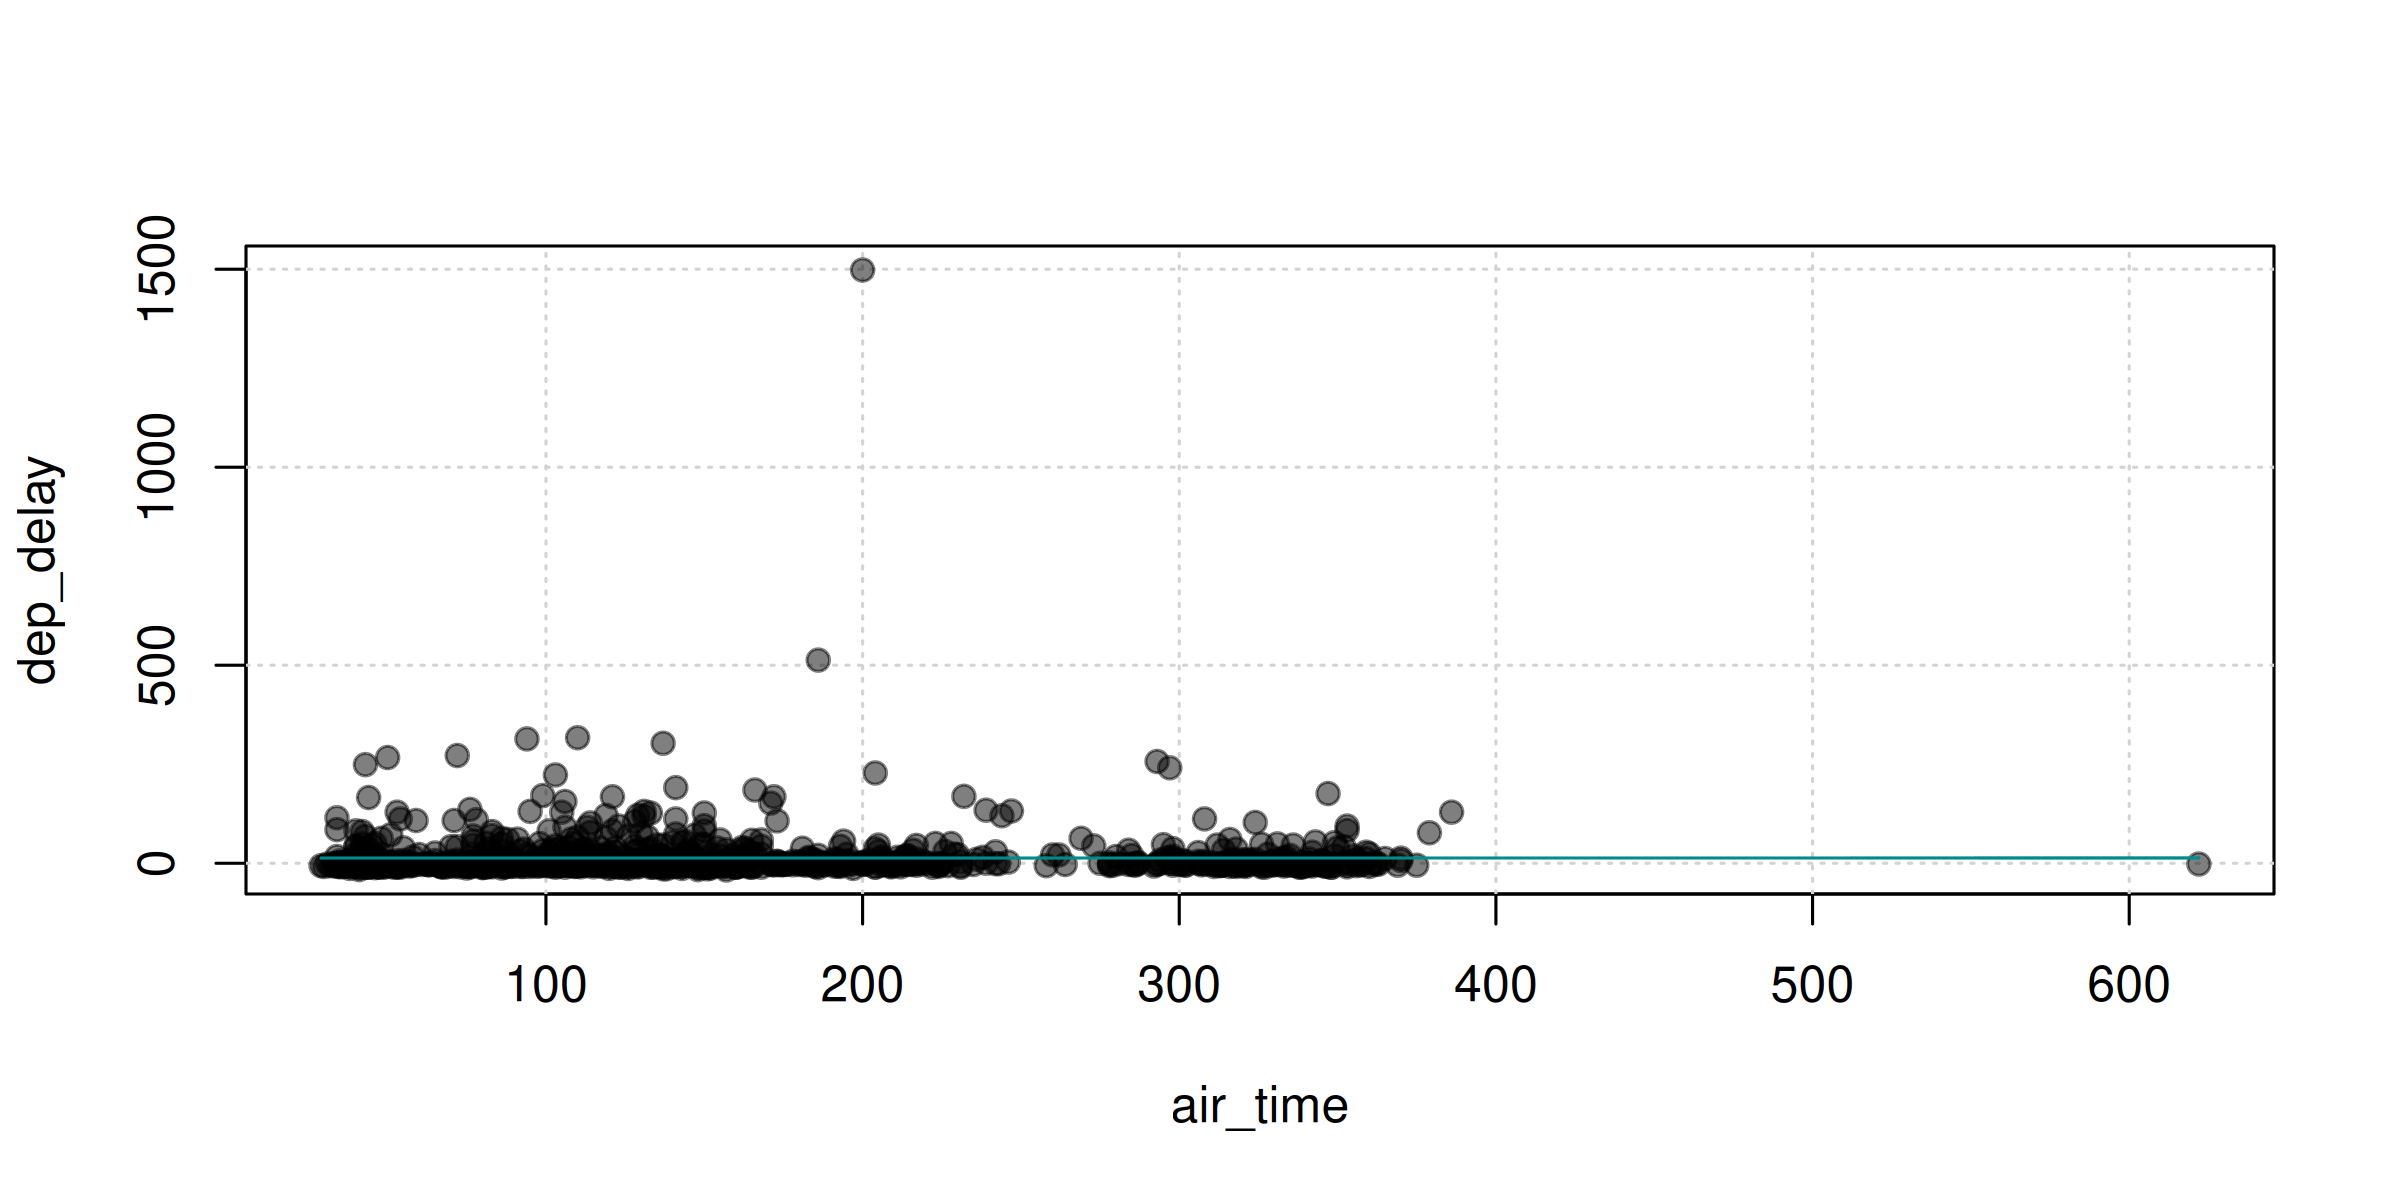
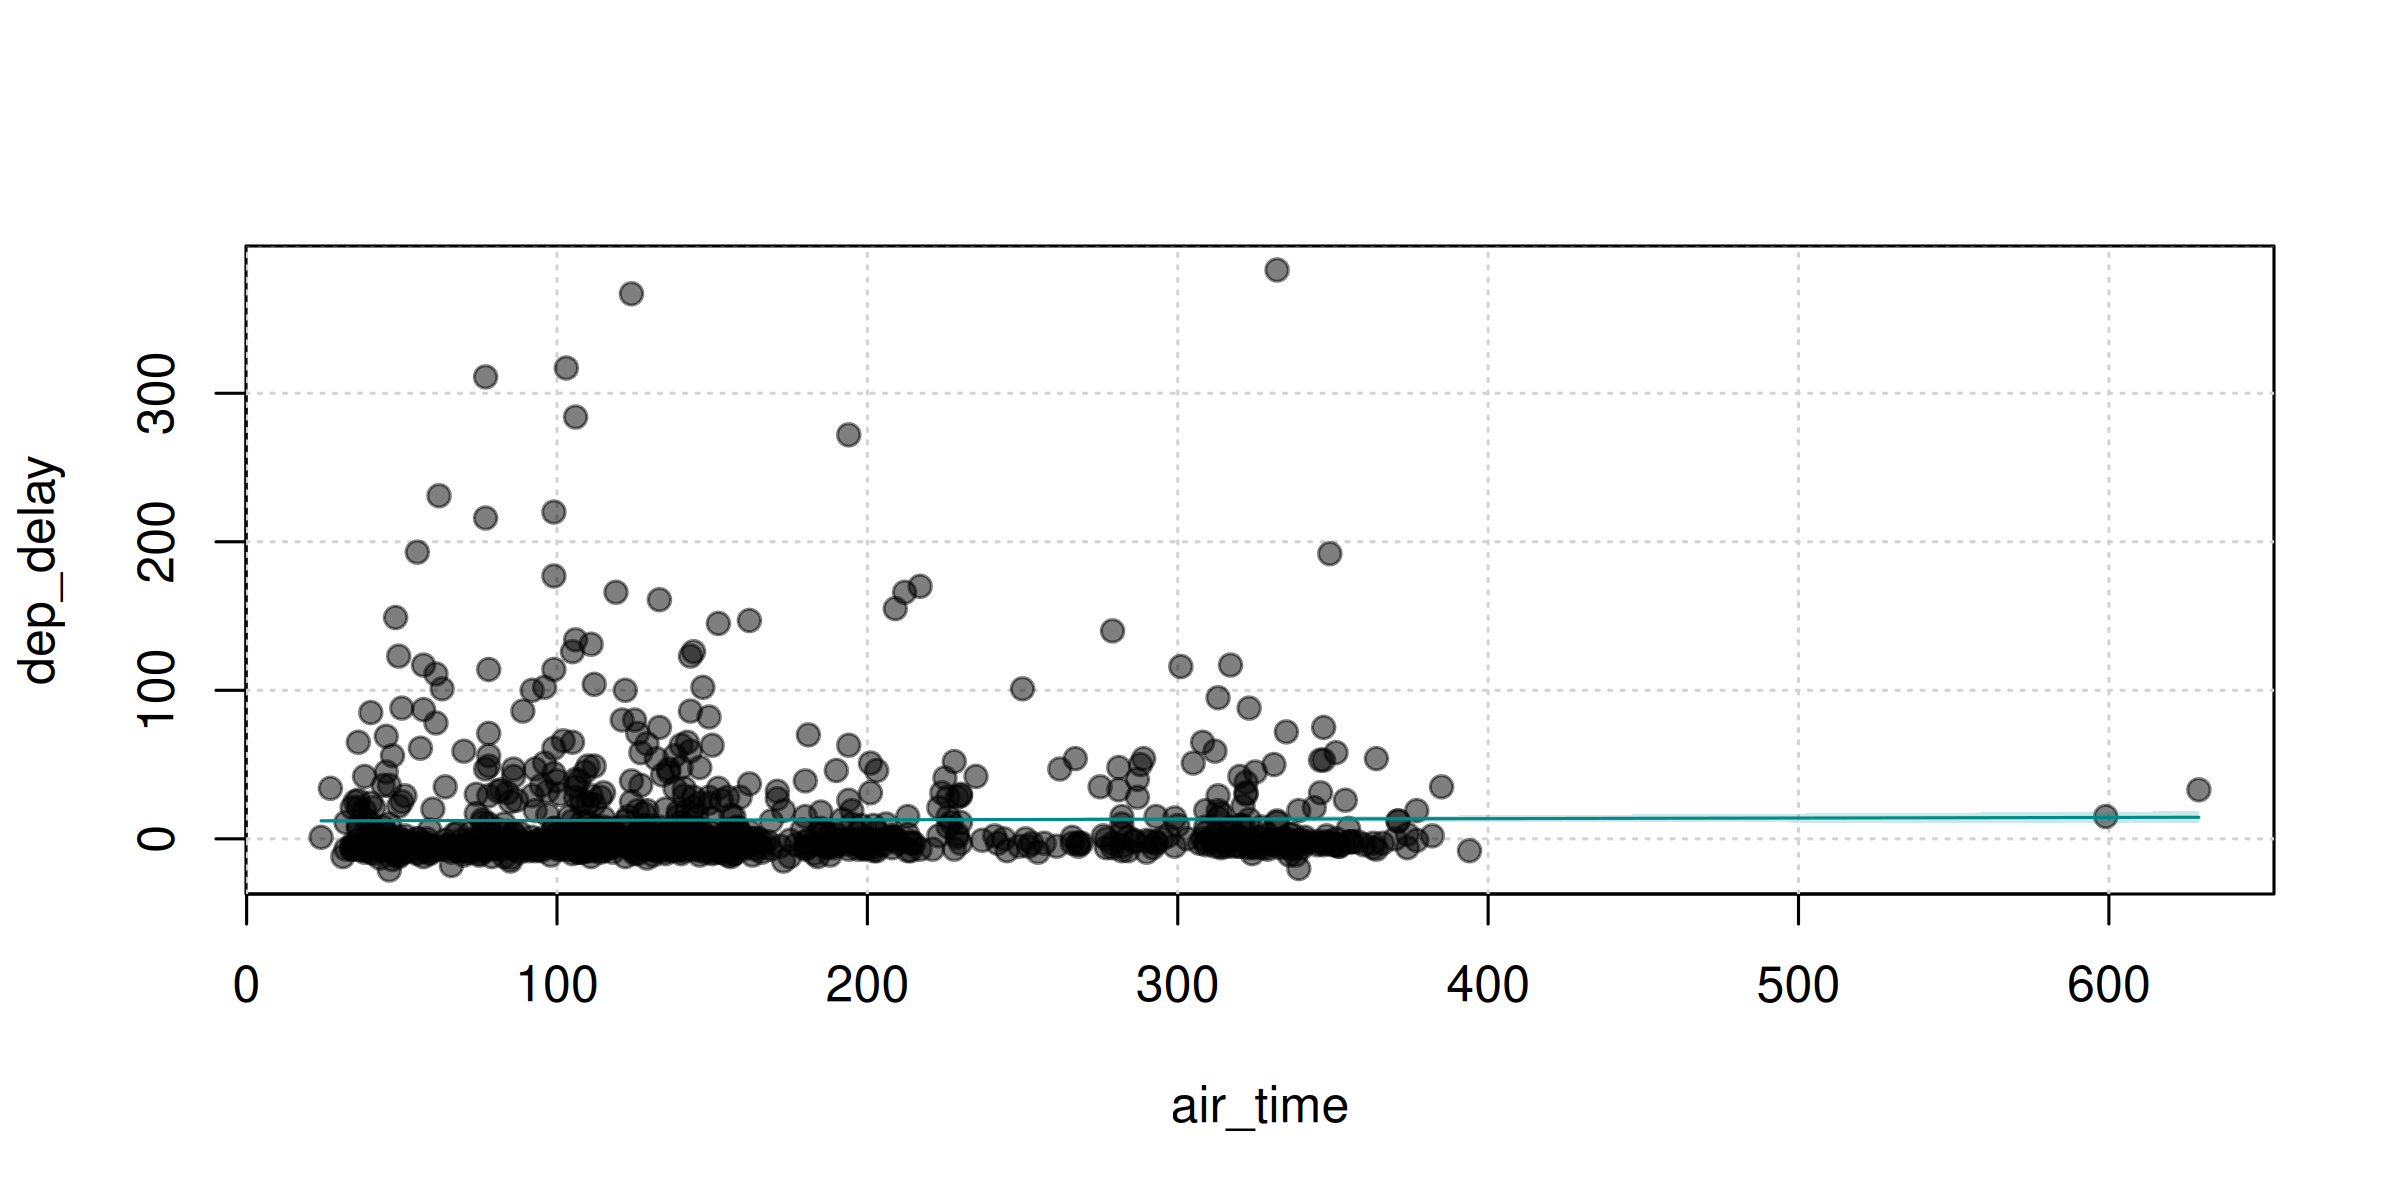
typo

diff --git a/README.md b/README.md
@@ -49,7 +49,7 @@ fwl_plot(dep_delay ~ air_time, data = sample)
 <img src="man/figures/README-unnamed-chunk-3-1.png" width="100%" />
 
 ``` r
-# With covaraites = FWL'd scatterplot
+# With covariates = FWL'd scatterplot
 fwl_plot(
   dep_delay ~ air_time | origin + dest,
   data = sample, vcov = "hc1"
@@ -85,16 +85,16 @@ feols(
   data = sample, subset = ~long_distance, cluster = ~origin
 )
 #> OLS estimation, Dep. Var.: dep_delay
-#> Observations: 1,719
+#> Observations: 1,738
 #> Subset: long_distance
-#> Fixed-effects: origin: 2,  dest: 16
+#> Fixed-effects: origin: 2,  dest: 15
 #> Standard-errors: Clustered (origin) 
-#>          Estimate Std. Error t value Pr(>|t|) 
-#> air_time 0.071599   0.043164 1.65878  0.34537 
+#>          Estimate Std. Error  t value Pr(>|t|) 
+#> air_time 0.013261   0.122372 0.108369  0.93128 
 #> ---
 #> Signif. codes:  0 '***' 0.001 '**' 0.01 '*' 0.05 '.' 0.1 ' ' 1
-#> RMSE: 41.0     Adj. R2: 0.003849
-#>              Within R2: 7.185e-4
+#> RMSE: 43.6     Adj. R2: -0.001756
+#>              Within R2:  2.333e-5
 ```
 
 ``` r
